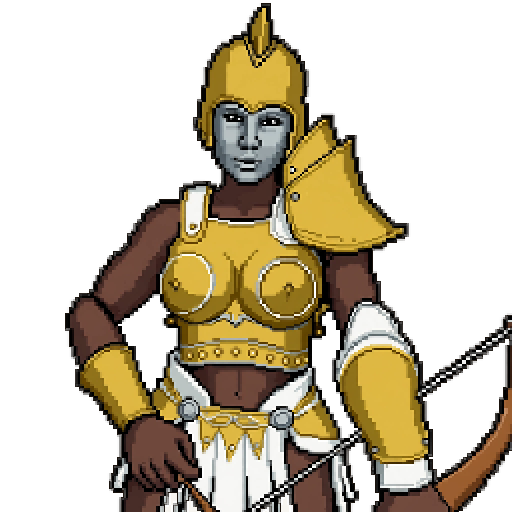
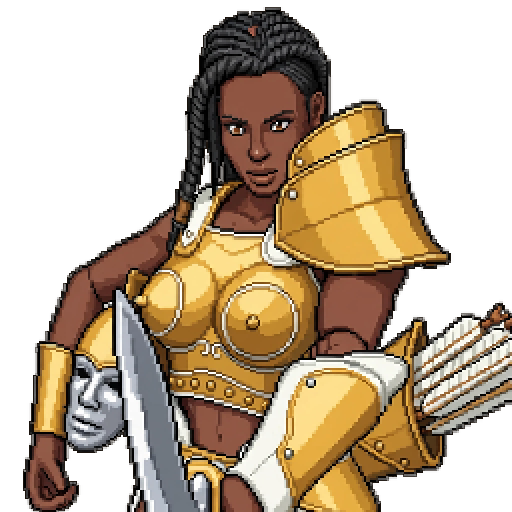
組み合わせページのTADALAの素材を新しい画像に差し替える (#180)
ユーザー提供の新しい画像（512×512の背景透過PNG）へ置き換え、
選択欄の縮小画像も作り直す。表示名・id・初期表示は変えない。
基本設計書の §12・§14 に記録する。

diff --git a/docs/01_ゲーム企画・基本設計書.md b/docs/01_ゲーム企画・基本設計書.md
@@ -70,11 +70,12 @@
 - 2026-11-24：組み合わせページの背景に、和柄の松と金雲・鶴と青海波・桜と金屏風・竹と金月・梅と金の雪・富士の裾と金雲・鯉と滝・紅葉と金流水の8種を加え、16種にする（#175）。表示名はユーザーの指定。素材はユーザー提供の512×512で、位置・大きさの調整はしない。型検査・通常ビルド、17キャラ×16背景の272通りの保存PNG（512×512・素材の合成と一致）、並び順、390px幅の4列表示をChromiumで確認した。390px幅のプレビュー下端から保存ボタン下端までは、背景が4行になり約1220pxになる（#172 の方針どおり4列のまま）。Safariでの保存は未検証。
 - 2026-11-24：組み合わせページの選択欄のサムネイルを、元画像から256×256のwebp（画質85）の縮小画像に変える（#166）。合成と保存は元画像のまま。開いた直後に読み込む画像は、元画像33枚の約6.9MBから、縮小画像33枚と初期表示の元画像2枚の約0.87MBに減った。型検査・通常ビルド、17キャラ×16背景の272通りの保存PNGが元画像の合成と一致すること、390/1200px幅の表示が変わらないこと、PC（2倍解像度）でサムネイルが粗く見えないことをChromiumで確認した。
 - 2026-11-24：組み合わせページのキャラ・背景の選択欄を1行にし、はみ出し分を横スクロールにする（#178、ユーザーが横スクロールを選択）。#172 の「狭い画面では4列のまま行を増やす」方針を置き換える。PCは3つ半（幅761〜960pxは2つ半）、幅760px以下は4つ半が見える幅にし、常に右端の選択肢を半分見せる（見える数・欄の余白6pxは仮置き）。横スクロール欄ではスワイプ後に空欄が見えないよう、サムネイルの lazy 読み込みをやめる（初期の読み込み量は #166 の約0.87MBのまま）。型検査・通常ビルド、320/390/760/761/1200px幅で各欄が1行・ページ全体の横はみ出しなし、スクロール先の最後の選択肢（AMBILLUS・紅葉と金流水）の選択・表示・保存、選択枠とフォーカス枠が欄の端で切れないことをChromiumで確認した。プレビュー下端から保存ボタン下端までは390px幅で約430px。未検証：スマートフォン実機（iOS Safari・Android Chrome）でのスワイプ操作と、低速回線でスワイプしたときのサムネイル表示。公開後に実機で、キャラ・背景の欄を右端までスワイプして選べることを確認する。
+- 2026-11-24：組み合わせページのTADALAの素材を、ユーザー提供の新しい画像（512×512の背景透過PNG。兜をかぶらず編み込みの髪で、白い仮面付きの兜を手に持ち、矢筒を背負った姿）へ差し替える（#180）。選択欄の縮小画像も作り直す。表示名・id・初期表示（TADALA×海）は変えず、位置・大きさの調整はしない。
 - 戦闘の構想や承認履歴は過去資料とGit履歴に保存する。現行の装備室の制約や次の作業として自動的に引き継がない。将来戦闘を再開する場合は、その時点で参照する。
 
 ## 14. 現在の状態と次の検討
 
-- #160 のキャラと背景の組み合わせページは、ユーザー承認により装備室の範囲へ追加した。2キャラ×2背景の表示・保存をChromiumで確認済み。エージェントレビューを1回実施し、指摘対応はPR #161 に記録した。公開URLへの反映と、Firefoxでの保存（ユーザー確認）は確認済み。Safariでの保存は未検証。#163 で背景を8種へ増やし、公開済み。#165 で狭い画面の選択肢を4列にし、公開後にスマートフォンの実機でユーザーが確認済み。#168 でキャラを6種へ増やし、公開済み。#170 でキャラを17種へ増やし、公開済み。#173 でTADALA・BERENICEの透過漏れを直した素材へ差し替え、公開済み。#175 で和柄の背景8種を加え、背景を16種へ増やし、公開済み。スマホで選択欄が縦に伸びる件は、#172 で4列のまま行を増やす方針にしたが、#178 で全幅とも1行・横スクロールに変更した。スマートフォン実機でのスワイプ操作は未検証で、公開後に確認する。#166 で選択欄に縮小画像を使い、開いた直後の読み込みを約6.9MBから約0.87MBに減らす。キャラ・背景の追加や、位置・大きさの調整は未決定。
+- #160 のキャラと背景の組み合わせページは、ユーザー承認により装備室の範囲へ追加した。2キャラ×2背景の表示・保存をChromiumで確認済み。エージェントレビューを1回実施し、指摘対応はPR #161 に記録した。公開URLへの反映と、Firefoxでの保存（ユーザー確認）は確認済み。Safariでの保存は未検証。#163 で背景を8種へ増やし、公開済み。#165 で狭い画面の選択肢を4列にし、公開後にスマートフォンの実機でユーザーが確認済み。#168 でキャラを6種へ増やし、公開済み。#170 でキャラを17種へ増やし、公開済み。#173 でTADALA・BERENICEの透過漏れを直した素材へ差し替え、公開済み。#175 で和柄の背景8種を加え、背景を16種へ増やし、公開済み。#180 でTADALAの素材を新しい画像へ差し替える。スマホで選択欄が縦に伸びる件は、#172 で4列のまま行を増やす方針にしたが、#178 で全幅とも1行・横スクロールに変更した。スマートフォン実機でのスワイプ操作は未検証で、公開後に確認する。#166 で選択欄に縮小画像を使い、開いた直後の読み込みを約6.9MBから約0.87MBに減らす。キャラ・背景の追加や、位置・大きさの調整は未決定。
 
 - #153 の銀・青緑は、台座を少し低くした案をユーザー承認済み。承認済みパーツを着脱版・比較ページ・保存PNGとサムネイルへ登録済み。画像切替版の接続へ寄せた最後の試案は取消済み。型検査・通常/Pages用ビルド、全7保存・全6通常/半透明比較の画素一致、基準線・390pxを確認済み。レビューは1回実施し、指摘対応・CIは対応Issue・PRへ記録する。公開URLへの反映はマージ前のため未確認。
 
